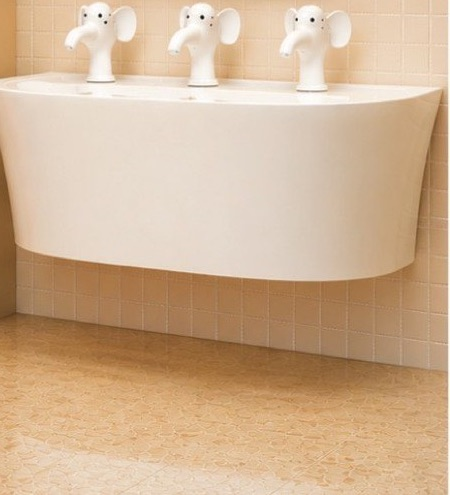
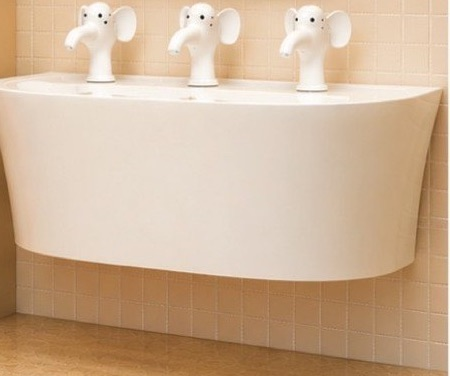
First Broom: high-res M40 faucets, MTC-128, hero crop, label align
- Replace blurry faucet crops with high-res M40 series from supplier sheets
  (single-lever mixer in Coral/Ice/Yellow/Pink + gooseneck + wall mixer)
- Update product names and model codes to the M40 catalogue
- Elephant faucet model corrected to MTC-128
- Hero: crop bottom floor so the basin fills more of the frame
- Featured tap: top-align columns so the model label lines up with the pictures
- gitignore the raw Faucet2/3 source screenshots

diff --git a/collections/first-broom.html b/collections/first-broom.html
@@ -154,40 +154,40 @@
         <h2>Taps worth <em>reaching</em> for.</h2>
       </div>
 
-      <!-- featured: basin tap in four colours -->
+      <!-- featured: single-lever mixer in colours -->
       <div class="fb-tap-feature">
         <div class="fb-tap-info">
-          <span class="fb-model" style="--c:#C7A253">M401007 &middot; M407001</span>
-          <h3>Single-Hole Basin Tap</h3>
-          <p class="fb-desc">One friendly, child-scaled tap &mdash; offered across a full spectrum of soft, happy colours. A copper body, an easy lever, and a gentle aerated stream.</p>
+          <span class="fb-model" style="--c:#C7A253">M40 &middot; Single-Lever</span>
+          <h3>Single-Lever Basin Mixer</h3>
+          <p class="fb-desc">One friendly, child-scaled mixer &mdash; offered across a full spectrum of soft, happy colours. A smooth single lever and a gentle, aerated stream.</p>
           <dl class="fb-spec-list">
-            <div><dt>Body</dt><dd>Copper body + zinc-alloy handle</dd></div>
-            <div><dt>Supply</dt><dd>Two 50 cm hoses included</dd></div>
-            <div><dt>Flow</dt><dd>Neoperl aerator &middot; soft stream</dd></div>
-            <div><dt>Cartridge</dt><dd>Ceramic disc cartridge</dd></div>
+            <div><dt>Operation</dt><dd>Single lever &middot; ceramic cartridge</dd></div>
+            <div><dt>Flow</dt><dd>Aerated soft stream</dd></div>
+            <div><dt>Finishes</dt><dd>12 &mdash; incl. Chrome, Matt Black, Gold</dd></div>
+            <div><dt>Playful hues</dt><dd>Coral, Ice, Yellow, Pink &amp; more</dd></div>
           </dl>
         </div>
         <div class="fb-colourway">
-          <figure style="--c:#E5635C"><img src="/assets/images/first-broom/faucets/m401007cl.png" alt="Coral single-hole basin tap"><figcaption><b>Coral Red</b><span>M401007CL</span></figcaption></figure>
-          <figure style="--c:#5FB6DE"><img src="/assets/images/first-broom/faucets/m401007ie.png" alt="Ice-blue single-hole basin tap"><figcaption><b>Ice Blue</b><span>M401007IE</span></figcaption></figure>
-          <figure style="--c:#E3C948"><img src="/assets/images/first-broom/faucets/m401007y.png" alt="Duckling-yellow single-hole basin tap"><figcaption><b>Duckling Yellow</b><span>M401007Y</span></figcaption></figure>
-          <figure style="--c:#E39BB3"><img src="/assets/images/first-broom/faucets/m407001.png" alt="Pink single-hole basin tap"><figcaption><b>Pink</b><span>M407001</span></figcaption></figure>
+          <figure style="--c:#E5613C"><img src="/assets/images/first-broom/faucets/m40-1301.png" alt="Coral single-lever basin mixer"><figcaption><b>Coral</b><span>M40 1301</span></figcaption></figure>
+          <figure style="--c:#5FB6DE"><img src="/assets/images/first-broom/faucets/m40-1401.png" alt="Ice-blue single-lever basin mixer"><figcaption><b>Ice Blue</b><span>M40 1401</span></figcaption></figure>
+          <figure style="--c:#E3C948"><img src="/assets/images/first-broom/faucets/m40-1001yl.png" alt="Yellow single-lever basin mixer"><figcaption><b>Yellow</b><span>M40 1001YL</span></figcaption></figure>
+          <figure style="--c:#E39BB3"><img src="/assets/images/first-broom/faucets/m40-7001.png" alt="Pink single-lever basin mixer"><figcaption><b>Pink</b><span>M40 7001</span></figcaption></figure>
         </div>
       </div>
 
       <!-- accessories -->
       <div class="fb-acc-grid">
         <article class="fb-acc" style="--c:#5FB6DE">
-          <div class="fb-acc-img"><img src="/assets/images/first-broom/faucets/c401001ie.png" alt="Ice-blue single-hole sink mixer tap"></div>
-          <span class="fb-model">C401001IE</span>
-          <h4>Single-Hole Sink Mixer</h4>
-          <p>A taller gooseneck mixer for deeper sinks. Copper body + zinc handle, two 60 cm hoses, Neoperl aerator, ceramic cartridge.</p>
+          <div class="fb-acc-img"><img src="/assets/images/first-broom/faucets/m40-2003ie.png" alt="Ice-blue gooseneck basin mixer"></div>
+          <span class="fb-model">M40 2003IE</span>
+          <h4>Gooseneck Basin Mixer</h4>
+          <p>A taller gooseneck for deeper basins and easy little hands. Single lever, ceramic cartridge, aerated flow.</p>
         </article>
         <article class="fb-acc" style="--c:#5FB6DE">
-          <div class="fb-acc-img"><img src="/assets/images/first-broom/faucets/m401005ie.png" alt="Ice-blue wall-mounted basin tap"></div>
-          <span class="fb-model">M401005IE</span>
-          <h4>Wall-Mounted Basin Tap</h4>
-          <p>A wall spout and lever that keep the counter clear. Brass cap, brass spout and brass handle, ceramic cartridge.</p>
+          <div class="fb-acc-img"><img src="/assets/images/first-broom/faucets/m40-1005ie.png" alt="Ice-blue wall-mounted basin mixer"></div>
+          <span class="fb-model">M40 1005IE</span>
+          <h4>Wall-Mounted Basin Mixer</h4>
+          <p>A wall spout and lever that keep the counter clear. Concealed body, single-lever control.</p>
         </article>
         <article class="fb-acc" style="--c:#5FB6DE">
           <div class="fb-acc-img"><img src="/assets/images/first-broom/faucets/g401004ie.png" alt="Ice-blue towel ring"></div>

diff --git a/assets/css/styles.css b/assets/css/styles.css
@@ -517,7 +517,7 @@ form{display:grid;grid-template-columns:1fr 1fr;gap:18px}
 
 /* faucets & fittings */
 .fb-fittings{padding-block:clamp(52px,8vw,100px);background:var(--bg-2);border-top:1px solid var(--line-soft)}
-.fb-tap-feature{display:grid;grid-template-columns:.82fr 1.18fr;gap:clamp(30px,5vw,64px);align-items:center;
+.fb-tap-feature{display:grid;grid-template-columns:.82fr 1.18fr;gap:clamp(30px,5vw,64px);align-items:start;
   padding-bottom:clamp(40px,5vw,64px);border-bottom:1px solid var(--line-soft)}
 .fb-tap-info .fb-desc{margin-bottom:22px}
 .fb-colourway{display:grid;grid-template-columns:1fr 1fr;gap:16px}
